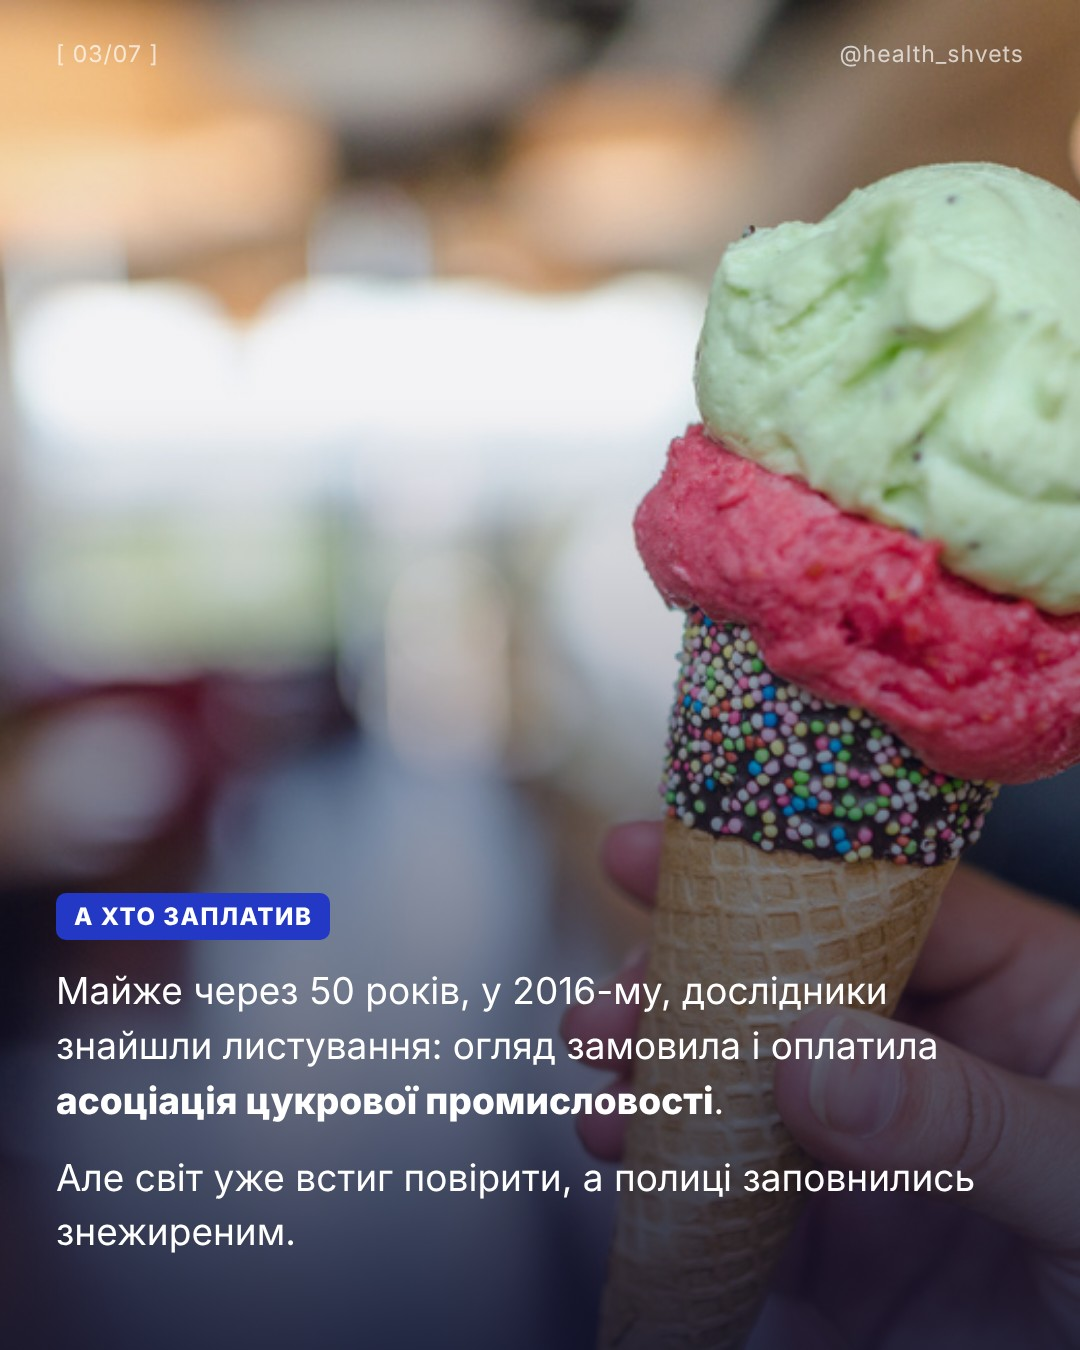
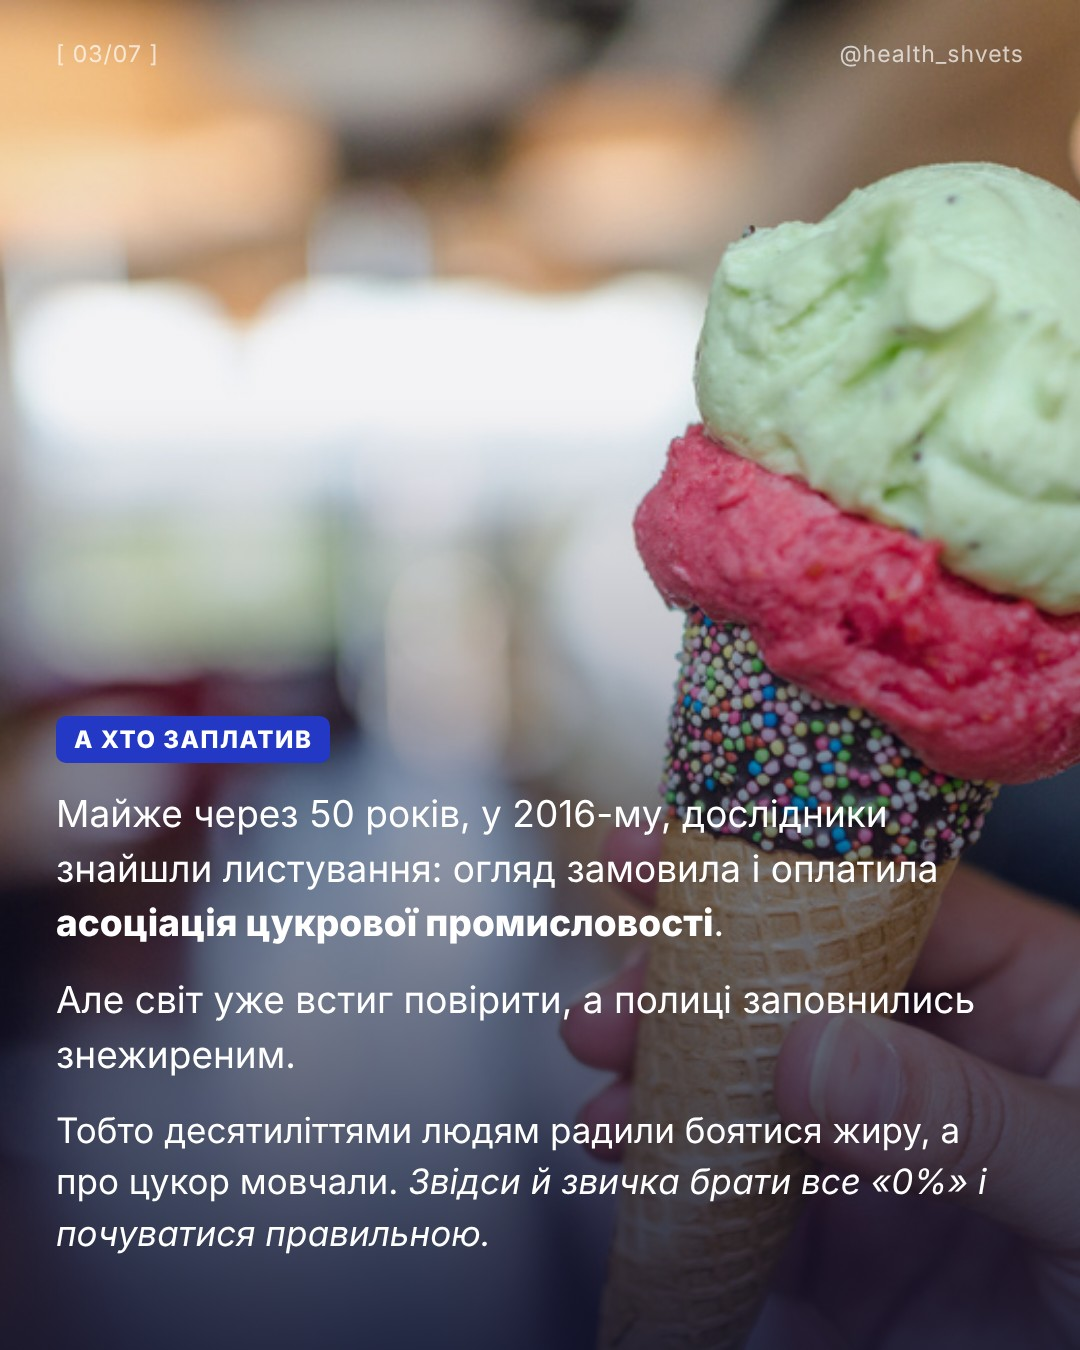
Каруселі 30.11-5.12 повноцінні: без порожніх обіцянок, заповнені слайди (extra_data.py)
Claude-Session: https://claude.ai/code/session_01VzrYNc44ZAszRsGLiFGcPN

Changed region(s): [[0.0306, 0.5289, 0.9167, 0.9333]]

diff --git a/tools/posts2/extra_data.py b/tools/posts2/extra_data.py
@@ -1,0 +1,51 @@
+"""Тексти доповнень каруселей Валентини (28.11). Див. extra.py."""
+from extra import X, R, S, P  # noqa: F401
+
+# ===== e6 · 30.11 9:00 · міф про жир =====
+X["e6"] = {
+    3: P("Тобто десятиліттями людям радили боятися жиру, а про цукор мовчали. <i>Звідси й звичка брати все «0%» і почуватися правильною.</i>"),
+    4: P("Порівняйте етикетки звичайного і знежиреного йогурту тієї ж марки: <b>у знежиреному цукру часто більше</b>. А ситості менше, тож через годину знову хочеться перекусити."),
+    6: P("<b>Що робити вже сьогодні:</b> повернути на тарілку ложку оливкової олії в салат, жменю горіхів на перекус і звичайний, а не знежирений сир. І уважно читати склад «легких» продуктів."),
+}
+# ===== e7 · 30.11 18:00 · олів'є тазиком (без порожньої обіцянки) =====
+R["e7"] = {2: [("Дочитайте до кінця, там те, що змінить ваш святковий стіл.", "Знайомо?")]}
+X["e7"] = {
+    3: P("<b>Як це зробити на практиці:</b> готуйте 2-3 салати замість шести, робіть менші порції і ставте на стіл овочеву нарізку першою. <i>Тоді до гарячого ви дійдете з апетитом, а не з важкістю.</i>"),
+}
+# ===== e8 · 1.12 9:00 · 5 правил грудня =====
+X["e8"] = {
+    2: P("<i>Наприклад, почніть з тарілки салату з капусти чи свіжих овочів, а вже потім беріть олів'є.</i> Клітковина дає ситість, і з'їсти зайве вже складніше."),
+    3: P("<i>Запечена риба, курка чи телятина без важкої шуби з майонезу.</i> Білок довше тримає ситість, тож тягнутися до десертів хочеться менше."),
+    5: P("<b>Ще порада:</b> чергуйте келих вина і склянку води та не пийте на голодний шлунок. <i>Тоді й зранку буде легко прокинутись.</i>"),
+}
+X["e6"][2] = P("<i>Так з'явилась мода на все «знежирене»</i>, і вона живе на полицях досі: від йогурту до печива з написом «легке».")
+X["e6"][5] = P("<b>Як це виглядає на тарілці:</b> жменя горіхів на перекус, половинка авокадо до яєць, ложка олії в салат і риба двічі на тиждень. Ситість приходить швидше, і тягне на солодке менше.")
+X["e7"][2] = P("<i>А ще ці три дні ми почуваємося важко, спимо гірше і обіцяємо собі «з понеділка».</i> Хоча свято мало б давати сили, а не забирати їх.")
+X["e8"][4] = P("<i>Шматочок торта чи ложка олів'є не зіпсують свята. Зіпсує тільки «я ж уже зірвалась, то вже все одно»</i> 😉")
+S["e8"] = {n: '.ph{height:430px!important} div[style*="top:700px"]{top:580px!important}' for n in (2, 3)}
+S["e8"] = {2: '.ph{height:430px!important} div[style*="top:700px"]{top:580px!important}', 4: '.ph{height:300px!important}'}
+
+# ===== f1 · 1.12 18:00 · Nutella =====
+X["f1"] = {4: P("<i>«Без консервантів» не означає «без цукру», а «для дітей» не означає «корисно».</i> Це лише слова на коробці, які продають.")}
+# ===== f2 · 2.12 9:00 · 4 речі перед вітамінами =====
+X["f2"] = {
+    2: P("<i>Те, що допомогло подрузі, може бути зайвим саме вам.</i> Тому спершу аналізи і ваші симптоми, а вже потім баночка."),
+    3: P("<b>Як перевірити:</b> на упаковці дивіться не тільки назву вітаміну, а й форму, в якій він записаний. Від неї залежить, скільки організм реально засвоїть."),
+    4: P("<b>На що звернути увагу:</b> барвники, ароматизатори, цукор і довгий список допоміжних речовин. Чим коротший склад, тим краще."),
+    5: P("<i>Наприклад, деякі речовини заважають одна одній засвоюватись, якщо пити їх одночасно.</i> Тому схема так само важлива, як і сам засіб."),
+}
+# ===== f4 · 3.12 9:00 · шпалери поверх плями (без порожньої обіцянки) =====
+R["f4"] = {2: [("Дочитайте до кінця, там те, про що мало хто думає.", "Знайомо?")]}
+X["f4"] = {3: P("<b>Причина може бути в харчуванні, травленні, дефіцитах чи стресі.</b> Поки її не знайти, симптом повертається знову і знову, хоч скільки засобів ви перепробуєте.")}
+# ===== f6 · 4.12 9:00 · шкіра під тоналкою =====
+X["f6"] = {
+    4: P("<i>Без жорстких дієт:</i> поступово прибирали те, що подразнює кишківник, і додавали те, що його підтримує."),
+    5: P("<b>Почати можна вже сьогодні:</b> риба чи горіхи в раціоні, вода протягом дня і менше солодкого перед святами."),
+}
+# ===== g2 · 5.12 18:00 · подарунки в останню ніч (без порожньої обіцянки) =====
+R["g2"] = {2: [("Дочитайте до кінця, це не тільки про подарунки.", "Знайомо?")]}
+X["g2"] = {3: P("<b>Почати можна з малого:</b> склянка води зранку, овочі до кожного обіду, лягати на пів години раніше. <i>Такі кроки не чекають понеділка.</i>")}
+X["f1"][2] = P("<i>Знайома картина: тост з шоколадною пастою, «зате поснідала», і мама спокійна.</i> А через годину дитина знову просить солодкого.")
+X["f1"][5] = P("<b>Спробуйте сьогодні:</b> візьміть з полиці 3 продукти, які купуєте дитині, і прочитайте перші три інгредієнти. Відповідь часто дивує.")
+X["f4"][2] = P("<i>З нашим здоров'ям часто робимо те саме, просто не помічаємо.</i>")
+X["f6"][2] = P("<i>Знайоме відчуття, коли перед дзеркалом вирішуєте не що вдягнути, а скільки шарів тоналки нанести?</i>")

diff --git a/tools/posts2/extra.py b/tools/posts2/extra.py
@@ -1,0 +1,42 @@
+"""28.11.2026 (Тетяна: «каруселі мають бути повноцінні»): доповнення до вже зібраних каруселей Валентини без переписування збирачів.
+X[ключ][номер слайда] = HTML-абзац(и), додаються після останнього абзацу тексту (div.p) на слайді.
+R[ключ][номер слайда] = [(старий текст, новий текст), ...] заміни (напр. прибрати порожню обіцянку «Дочитайте…»).
+S[ключ][номер слайда] = CSS, що додається в <style> слайда (зменшити фото, підняти блок тощо).
+Підключено в кожному plan*.py: SETS = extra.patch(SETS)."""
+X, R, S = {}, {}, {}
+
+
+def _insert(html, add):
+    i = html.rfind('<div class="p"')
+    if i < 0:
+        return html
+    j = html.find("</div>", i)
+    if j < 0:
+        return html
+    return html[:j + 6] + add + html[j + 6:]
+
+
+def patch(sets):
+    out = {}
+    for key, slides in sets.items():
+        new = []
+        for n, h in enumerate(slides, 1):
+            for a, b in R.get(key, {}).get(n, []):
+                h = h.replace(a, b)
+            add = X.get(key, {}).get(n)
+            if add:
+                h = _insert(h, add)
+            css = S.get(key, {}).get(n)
+            if css:
+                h = h.replace("</style>", css + "</style>", 1)
+            new.append(h)
+        out[key] = new
+    return out
+
+
+def P(text, size=None):
+    st = f' style="font-size:{size}px"' if size else ""
+    return f'<div class="p"{st}>{text}</div>'
+
+
+import extra_data  # noqa: E402,F401  (дані доповнень)

diff --git a/tools/posts2/plan8.py b/tools/posts2/plan8.py
@@ -314,6 +314,10 @@ H14 = [
 SETS = {"h1": H1, "h2": H2, "h3": H3, "h4": H4, "h5": H5, "h6": H6, "h7": H7, "h8": H8, "h9": H9, "h10": H10, "h11": H11, "h12": H12, "h13": H13, "h14": H14}
 
 
+
+import extra  # noqa: E402
+SETS = extra.patch(SETS)  # 28.11: доповнення (extra_data.py)
+
 def build(keys):
     with sync_playwright() as p:
         b = p.chromium.launch()

diff --git a/tools/posts2/plan7.py b/tools/posts2/plan7.py
@@ -303,6 +303,10 @@ G12 = [
 SETS = {"g1": G1, "g2": G2, "g3": G3, "g4": G4, "g5": G5, "g6": G6, "g7": G7, "g8": G8, "g9": G9, "g10": G10, "g11": G11, "g12": G12}
 
 
+
+import extra  # noqa: E402
+SETS = extra.patch(SETS)  # 28.11: доповнення (extra_data.py)
+
 def build(keys):
     with sync_playwright() as p:
         b = p.chromium.launch()

diff --git a/tools/posts2/plan6.py b/tools/posts2/plan6.py
@@ -206,6 +206,10 @@ F7 = [
 SETS = {"f1": F1, "f2": F2, "f3": F3, "f4": F4, "f5": F5, "f6": F6, "f7": F7}
 
 
+
+import extra  # noqa: E402
+SETS = extra.patch(SETS)  # 28.11: доповнення (extra_data.py)
+
 def build(keys):
     with sync_playwright() as p:
         b = p.chromium.launch()

diff --git a/tools/posts2/plan5.py b/tools/posts2/plan5.py
@@ -236,6 +236,10 @@ E8 = [
 SETS = {"e3": E3, "e4": E4, "e5": E5, "e6": E6, "e7": E7, "e8": E8}
 
 
+
+import extra  # noqa: E402
+SETS = extra.patch(SETS)  # 28.11: доповнення (extra_data.py)
+
 def build(keys):
     with sync_playwright() as p:
         b = p.chromium.launch()

diff --git a/tools/posts2/plan4.py b/tools/posts2/plan4.py
@@ -113,6 +113,10 @@ E2 = [
 SETS = {"e1": E1, "e2": E2}
 
 
+
+import extra  # noqa: E402
+SETS = extra.patch(SETS)  # 28.11: доповнення (extra_data.py)
+
 def build(keys):
     with sync_playwright() as p:
         b = p.chromium.launch()

diff --git a/tools/posts2/plan9.py b/tools/posts2/plan9.py
@@ -369,6 +369,10 @@ CAPS = [
 ITEMS = CAPS
 
 
+
+import extra  # noqa: E402
+SETS = extra.patch(SETS)  # 28.11: доповнення (extra_data.py)
+
 def build(keys):
     with sync_playwright() as p:
         b = p.chromium.launch()

diff --git a/tools/posts2/plan10.py b/tools/posts2/plan10.py
@@ -359,6 +359,10 @@ ITEMS = [
 ]
 
 
+
+import extra  # noqa: E402
+SETS = extra.patch(SETS)  # 28.11: доповнення (extra_data.py)
+
 def build(keys):
     with sync_playwright() as p:
         b = p.chromium.launch()
